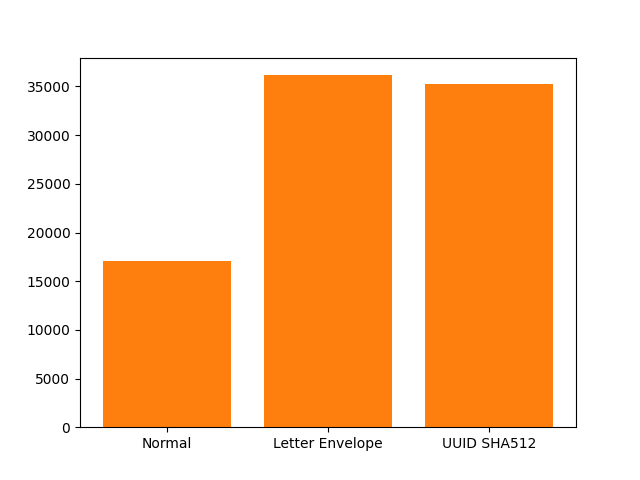
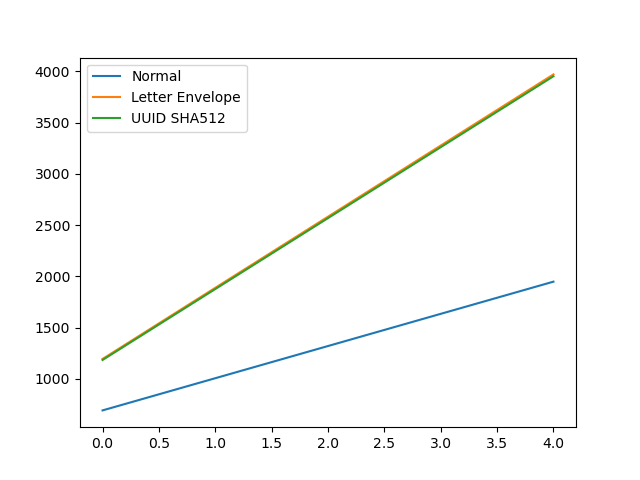
Memory lines

diff --git a/deauth-sim/metrics.py b/deauth-sim/metrics.py
@@ -16,47 +16,54 @@ def make_graph():
     mems = [nm, lm, um]
     plt.bar(protocols, times)
     plt.savefig('connectTimings.png')
-    plt.bar(protocols, mems)
+    plt.clf()
+    plt.plot(nm, label="Normal")
+    plt.plot(lm, label="Letter Envelope")
+    plt.plot(um, label="UUID SHA512")
+    plt.legend()
     plt.savefig('connectMems.png')
 
 def normal_connect():
     ether = sim.Ether()
     protocol = Normal()
     ap = sim.AccessPoint(ether, "bo:ba:ca:fe:00:01", protocol, "AccessPoint")
+    mems = []
     start = time.time()
     for i in range(RUNS):
         h = "%04x" % i
         client = sim.Client(ether, "de:ad:be:ef:"+h[:2]+":"+h[-2:], protocol)
         client.connect()
+        mems.append(ap.client_memory())
     end = time.time()
-    size = ap.client_memory()
     ap.stop()
-    return (end-start, size)
+    return (end-start, mems)
 
 def letter_envelope_connect():
     ether = sim.Ether()
     protocol = LetterEnvelope()
     ap = sim.AccessPoint(ether, "bo:ba:ca:fe:00:01", protocol, "AccessPoint")
+    mems = []
     start = time.time()
     for i in range(RUNS):
         h = "%04x" % i
         client = sim.Client(ether, "de:ad:be:ef:"+h[:2]+":"+h[-2:], protocol)
         client.connect()
+        mems.append(ap.client_memory())
     end = time.time()
-    size = ap.client_memory()
     ap.stop()
-    return (end-start, size)
+    return (end-start, mems)
 
 def uuid_envelope_connect():
     ether = sim.Ether()
     protocol = UUIDSHA512()
     ap = sim.AccessPoint(ether, "bo:ba:ca:fe:00:01", protocol, "AccessPoint")
+    mems = []
     start = time.time()
     for i in range(RUNS):
         h = "%04x" % i
         client = sim.Client(ether, "de:ad:be:ef:"+h[:2]+":"+h[-2:], protocol)
         client.connect()
+        mems.append(ap.client_memory())
     end = time.time()
-    size = ap.client_memory()
     ap.stop()
-    return (end-start, size)
+    return (end-start, mems)
